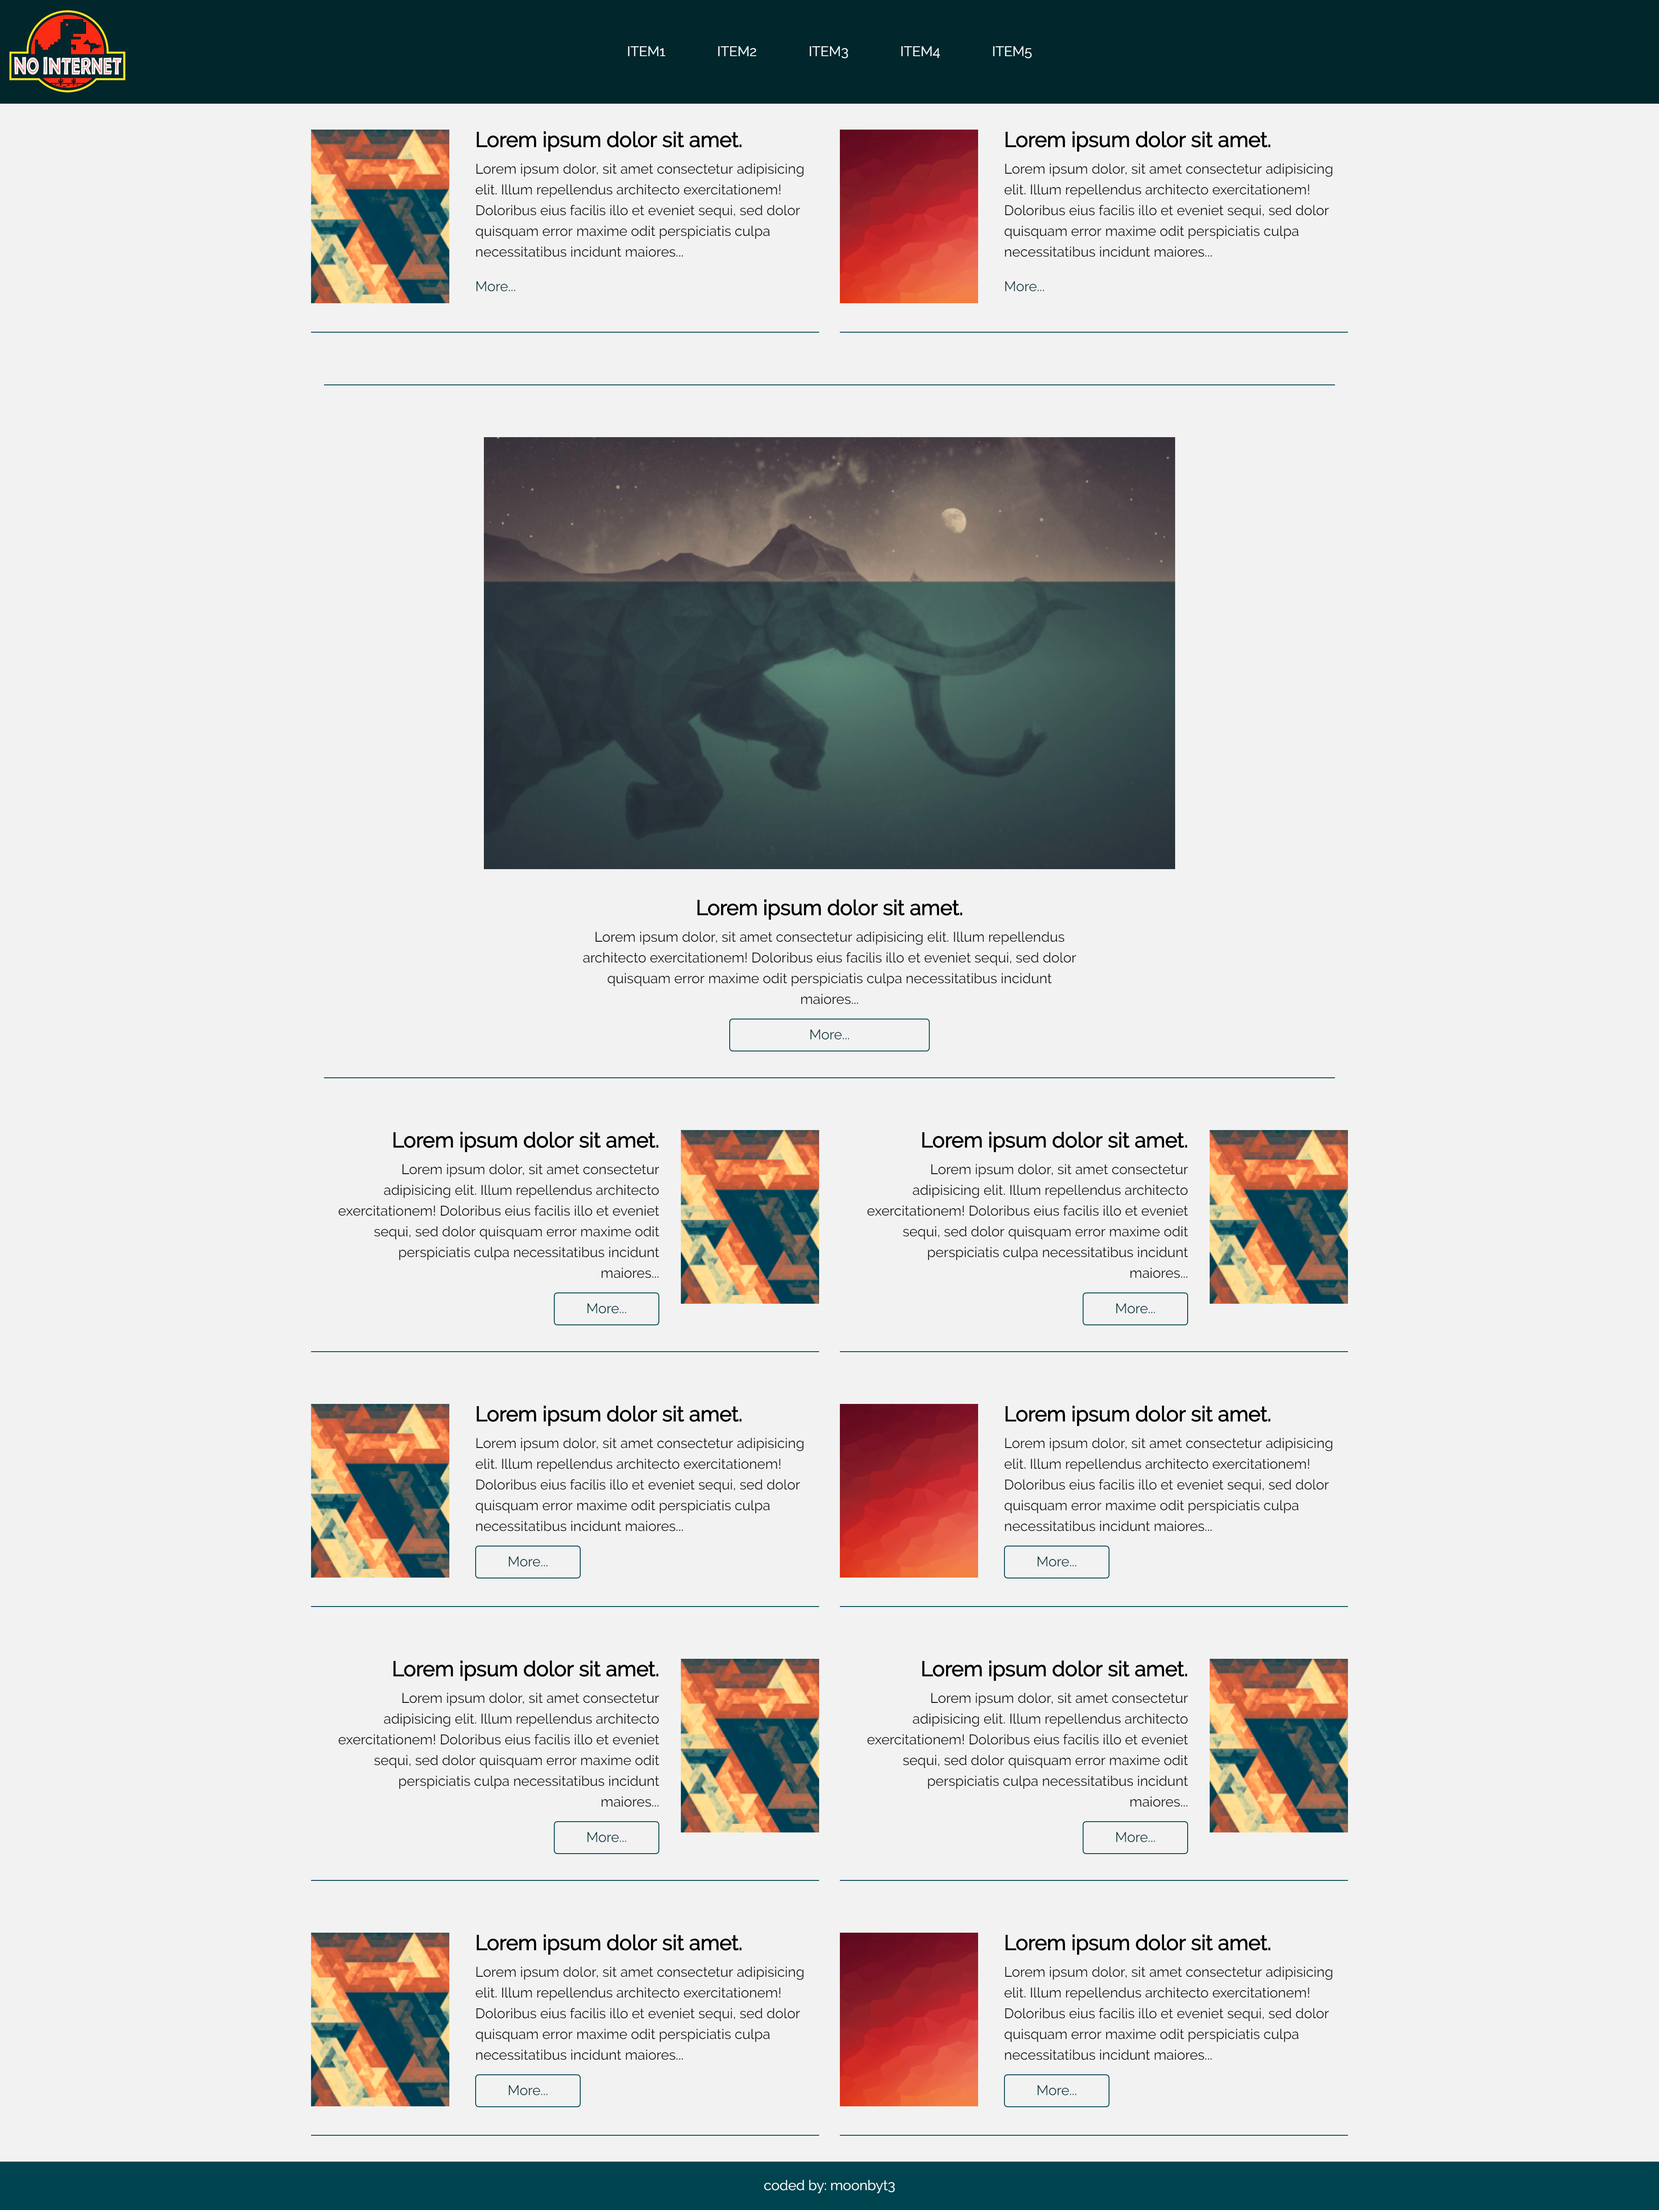
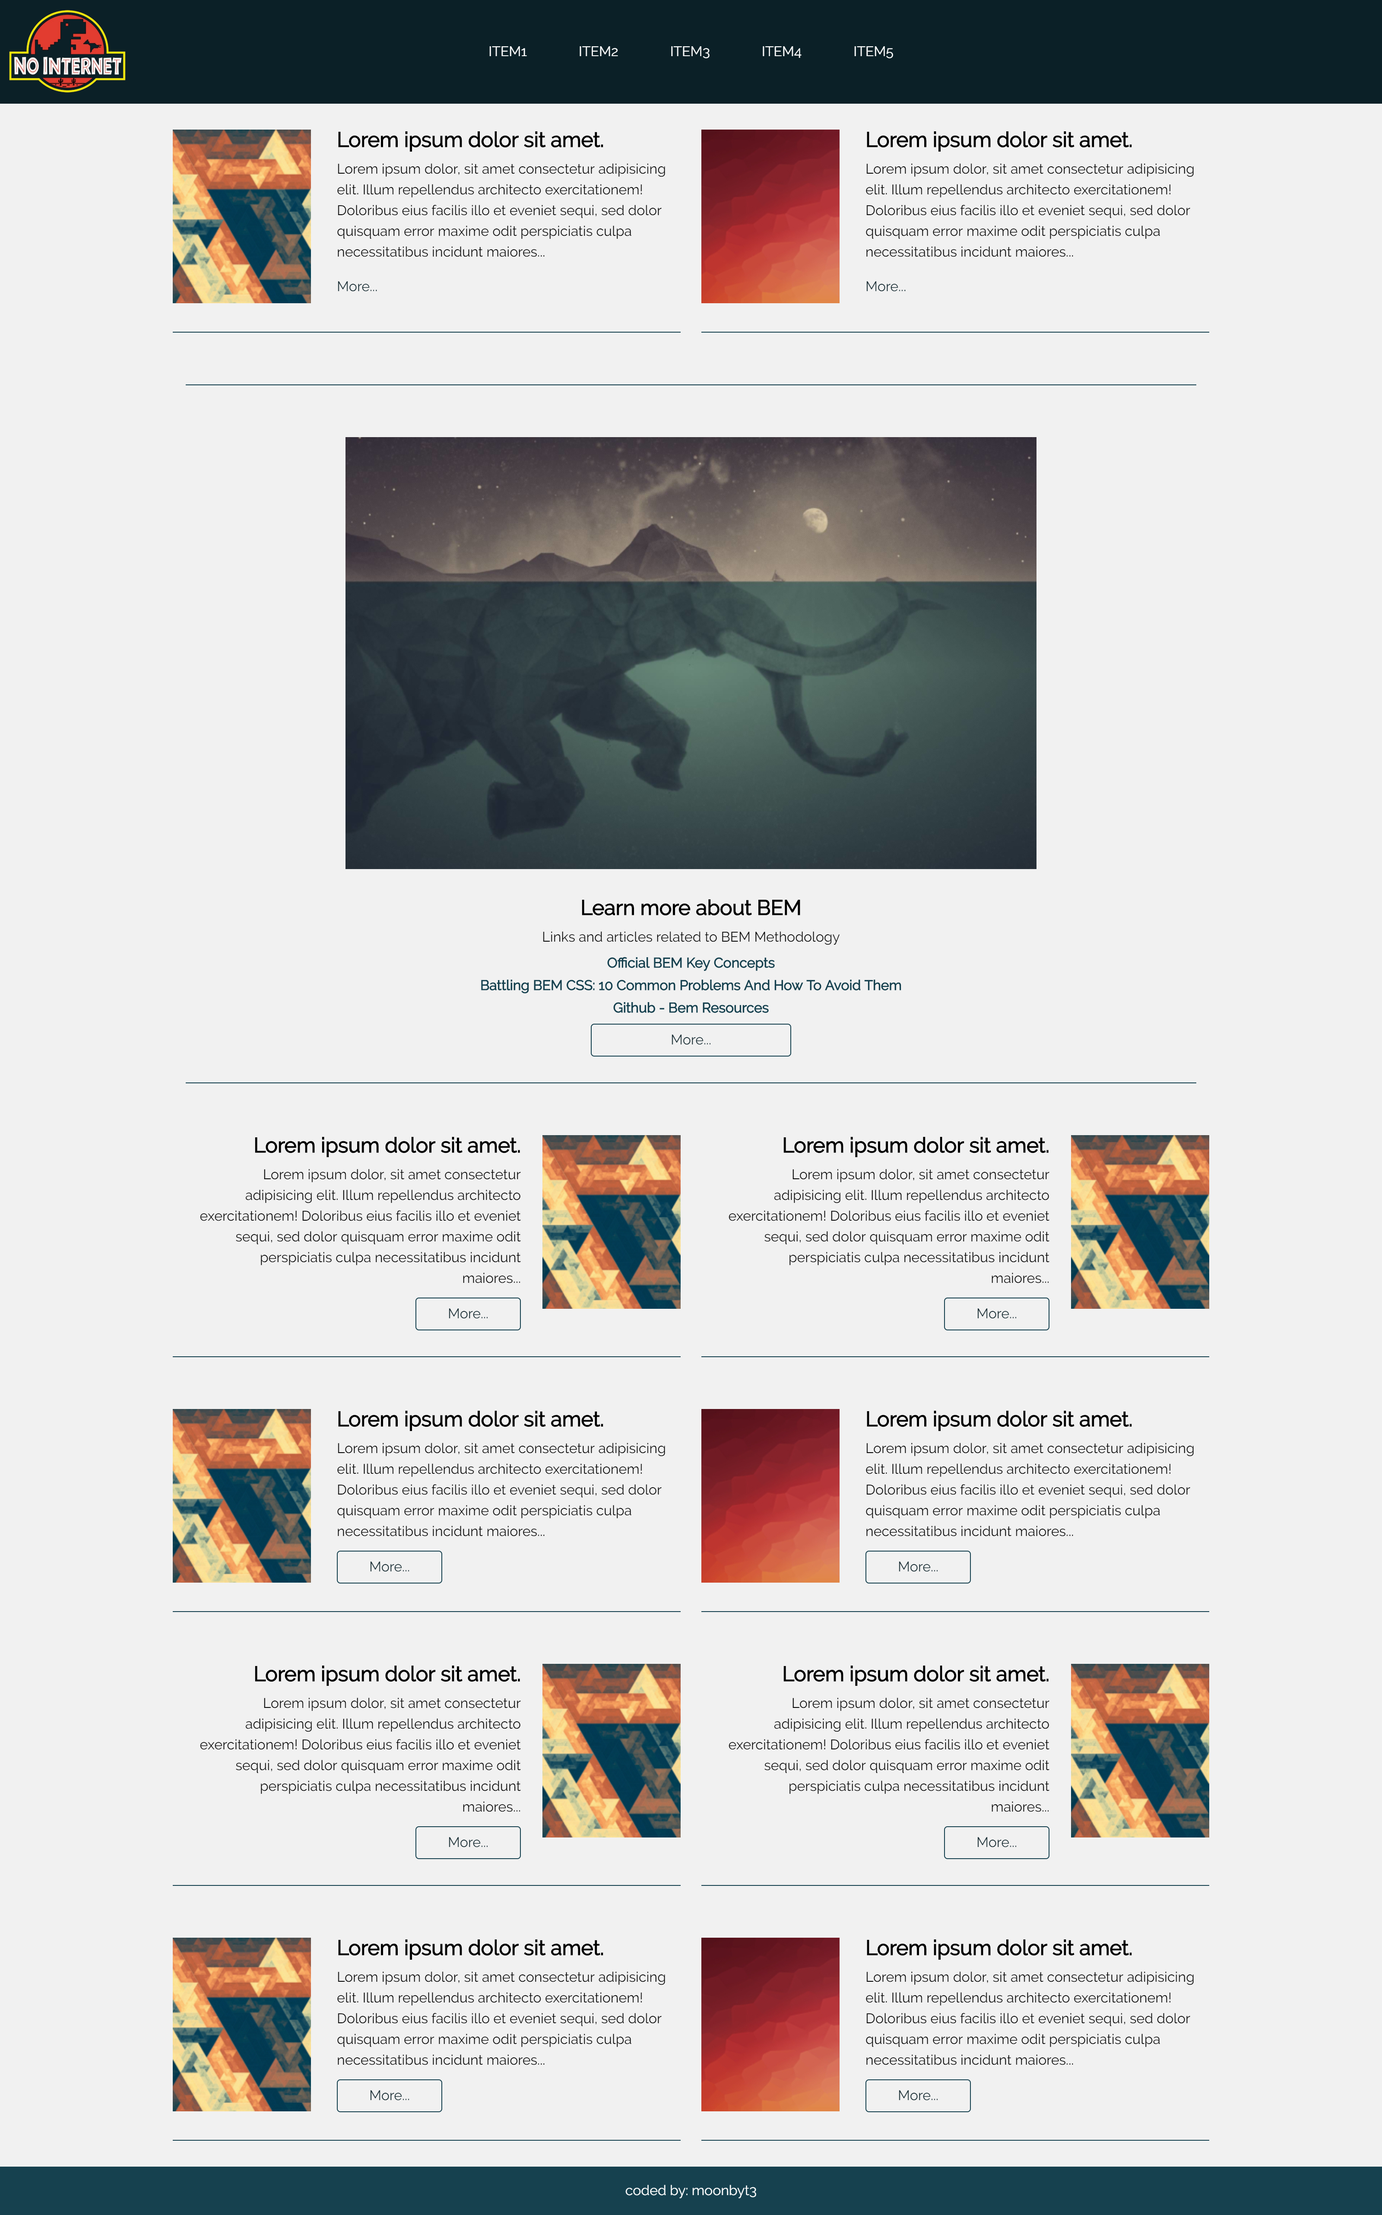
updated design img, minor refractors

diff --git a/index.html b/index.html
@@ -51,8 +51,8 @@
                     <img src="article-big.jpg" alt="Article Image" class="article__img">
                 </div>
                 <div class="article__content article__content--big">
-                    <h2 class="article__title">Lorem ipsum dolor sit amet.</h2>
-                    <p class="article__text">Lorem ipsum dolor, sit amet consectetur adipisicing elit. Illum repellendus architecto exercitationem! Doloribus eius facilis illo et eveniet sequi, sed dolor quisquam error maxime odit perspiciatis culpa necessitatibus incidunt maiores...</p>
+                    <h2 class="article__title">Learn more about BEM</h2>
+                    <p class="article__text">Links and articles related to BEM Methodology</p>
                     <div class="article__content-resources">
                         <a class="article__content-resources-item" href="https://en.bem.info/methodology/key-concepts/">Official BEM Key Concepts</a>
                         <a class="article__content-resources-item" href="https://www.smashingmagazine.com/2016/06/battling-bem-extended-edition-common-problems-and-how-to-avoid-them">Battling BEM CSS: 10 Common Problems And How To Avoid Them</a>
@@ -127,29 +127,29 @@
                         <a href="javascript:;" class="btn btn--reverse btn--info centered">More...</a>
                     </div>
                 </div>
-            </div>
-            <div class="articles-wrapper">
-                <div class="article">
-                    <div class="article__img-wrapper">
-                        <img src="img.jpg" alt="Article Image" class="article__img">
-                    </div>
-                    <div class="article__content">
-                        <h2 class="article__title">Lorem ipsum dolor sit amet.</h2>
-                        <p class="article__text">Lorem ipsum dolor, sit amet consectetur adipisicing elit. Illum repellendus architecto exercitationem! Doloribus eius facilis illo et eveniet sequi, sed dolor quisquam error maxime odit perspiciatis culpa necessitatibus incidunt maiores...</p>
-                        <a href="javascript:;" class="btn btn--info centered">More...</a>
-                    </div>
+        </div>
+        <div class="articles-wrapper">
+            <div class="article">
+                <div class="article__img-wrapper">
+                    <img src="img.jpg" alt="Article Image" class="article__img">
                 </div>
-                <div class="article">
-                    <div class="article__img-wrapper">
-                        <img src="img1.jpg" alt="Article Image" class="article__img">
-                    </div>
-                    <div class="article__content">
-                        <h2 class="article__title">Lorem ipsum dolor sit amet.</h2>
-                        <p class="article__text">Lorem ipsum dolor, sit amet consectetur adipisicing elit. Illum repellendus architecto exercitationem! Doloribus eius facilis illo et eveniet sequi, sed dolor quisquam error maxime odit perspiciatis culpa necessitatibus incidunt maiores...</p>
-                        <a href="javascript:;" class="btn btn--info centered">More...</a>
-                    </div>
+                <div class="article__content">
+                    <h2 class="article__title">Lorem ipsum dolor sit amet.</h2>
+                    <p class="article__text">Lorem ipsum dolor, sit amet consectetur adipisicing elit. Illum repellendus architecto exercitationem! Doloribus eius facilis illo et eveniet sequi, sed dolor quisquam error maxime odit perspiciatis culpa necessitatibus incidunt maiores...</p>
+                    <a href="javascript:;" class="btn btn--info centered">More...</a>
                 </div>
             </div>
+            <div class="article">
+                <div class="article__img-wrapper">
+                    <img src="img1.jpg" alt="Article Image" class="article__img">
+                </div>
+                <div class="article__content">
+                    <h2 class="article__title">Lorem ipsum dolor sit amet.</h2>
+                    <p class="article__text">Lorem ipsum dolor, sit amet consectetur adipisicing elit. Illum repellendus architecto exercitationem! Doloribus eius facilis illo et eveniet sequi, sed dolor quisquam error maxime odit perspiciatis culpa necessitatibus incidunt maiores...</p>
+                    <a href="javascript:;" class="btn btn--info centered">More...</a>
+                </div>
+            </div>
+        </div>
     </main>
     <footer>
         coded by: moonbyt3

diff --git a/main.css b/main.css
@@ -89,14 +89,14 @@ footer {
     width: 49%;
     padding-bottom: 30px;
 }
+.article--reverse {
+    flex-direction: row-reverse;
+}
 .article--big {
     flex-direction: column;
     width: 100%;
     text-align: center;
     border-bottom: none;
-}
-.article--reverse {
-    flex-direction: row-reverse;
 }
 .article__img-wrapper--big {
     padding: 60px 0 30px;

diff --git a/main2.css b/main2.css
@@ -89,14 +89,14 @@ footer {
     width: 49%;
     padding-bottom: 30px;
 }
+.article--reverse {
+    flex-direction: row-reverse;
+}
 .article--big {
     flex-direction: column;
     width: 100%;
     text-align: center;
     border-bottom: none;
-}
-.article--reverse {
-    flex-direction: row-reverse;
 }
 .article__img-wrapper--big {
     padding: 60px 0 30px;
